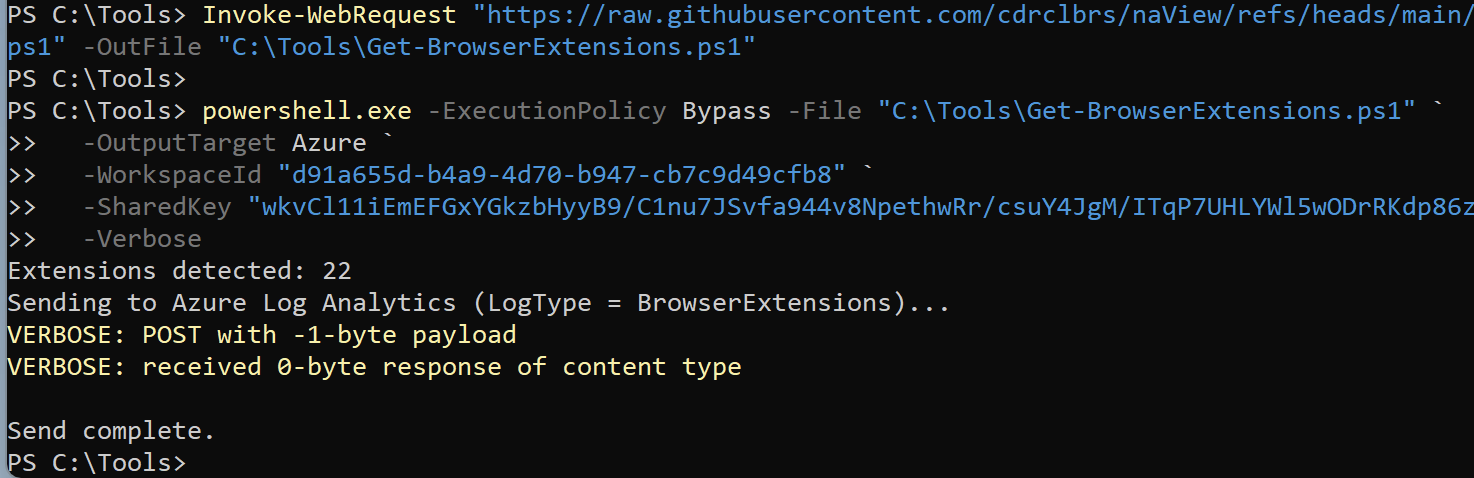
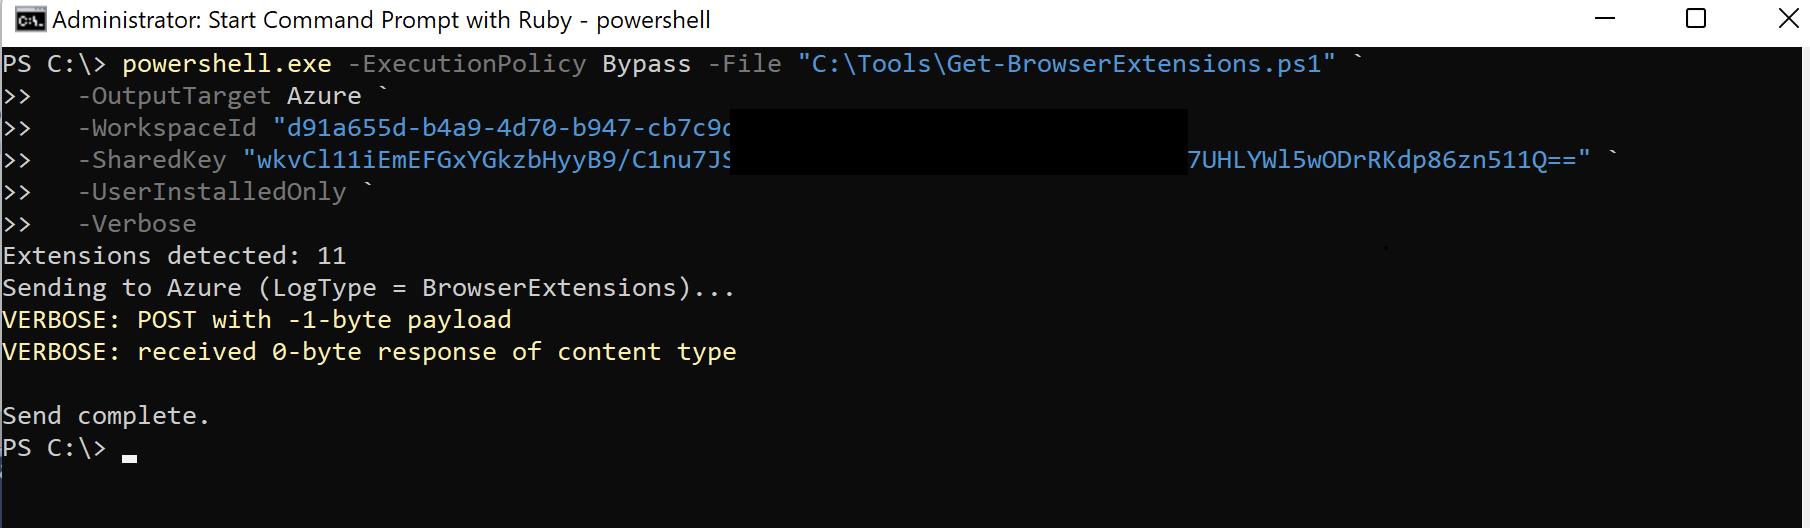
im

Changed region(s): [[0.0, 0.0, 1.0, 1.0]]

diff --git a/readme.md b/readme.md
@@ -112,6 +112,16 @@ Copy code
   -SharedKey "<SHARED-KEY>" `
   -Verbose
   ```
+Filtraer sur les extensions Users installed only
+```powershell
+powershell.exe -ExecutionPolicy Bypass -File "C:\Tools\Get-BrowserExtensions.ps1" 
+  -OutputTarget Azure 
+  -WorkspaceId "d91a655d-b4xxxxxfb8" 
+  -SharedKey "wkvCl11iEmEFGxYGxxxxxxxx6zn511Q==" 
+  -UserInstalledOnly 
+  -Verbose
+  ```
+
 
 
 ## Exemple — Exécution du Script
